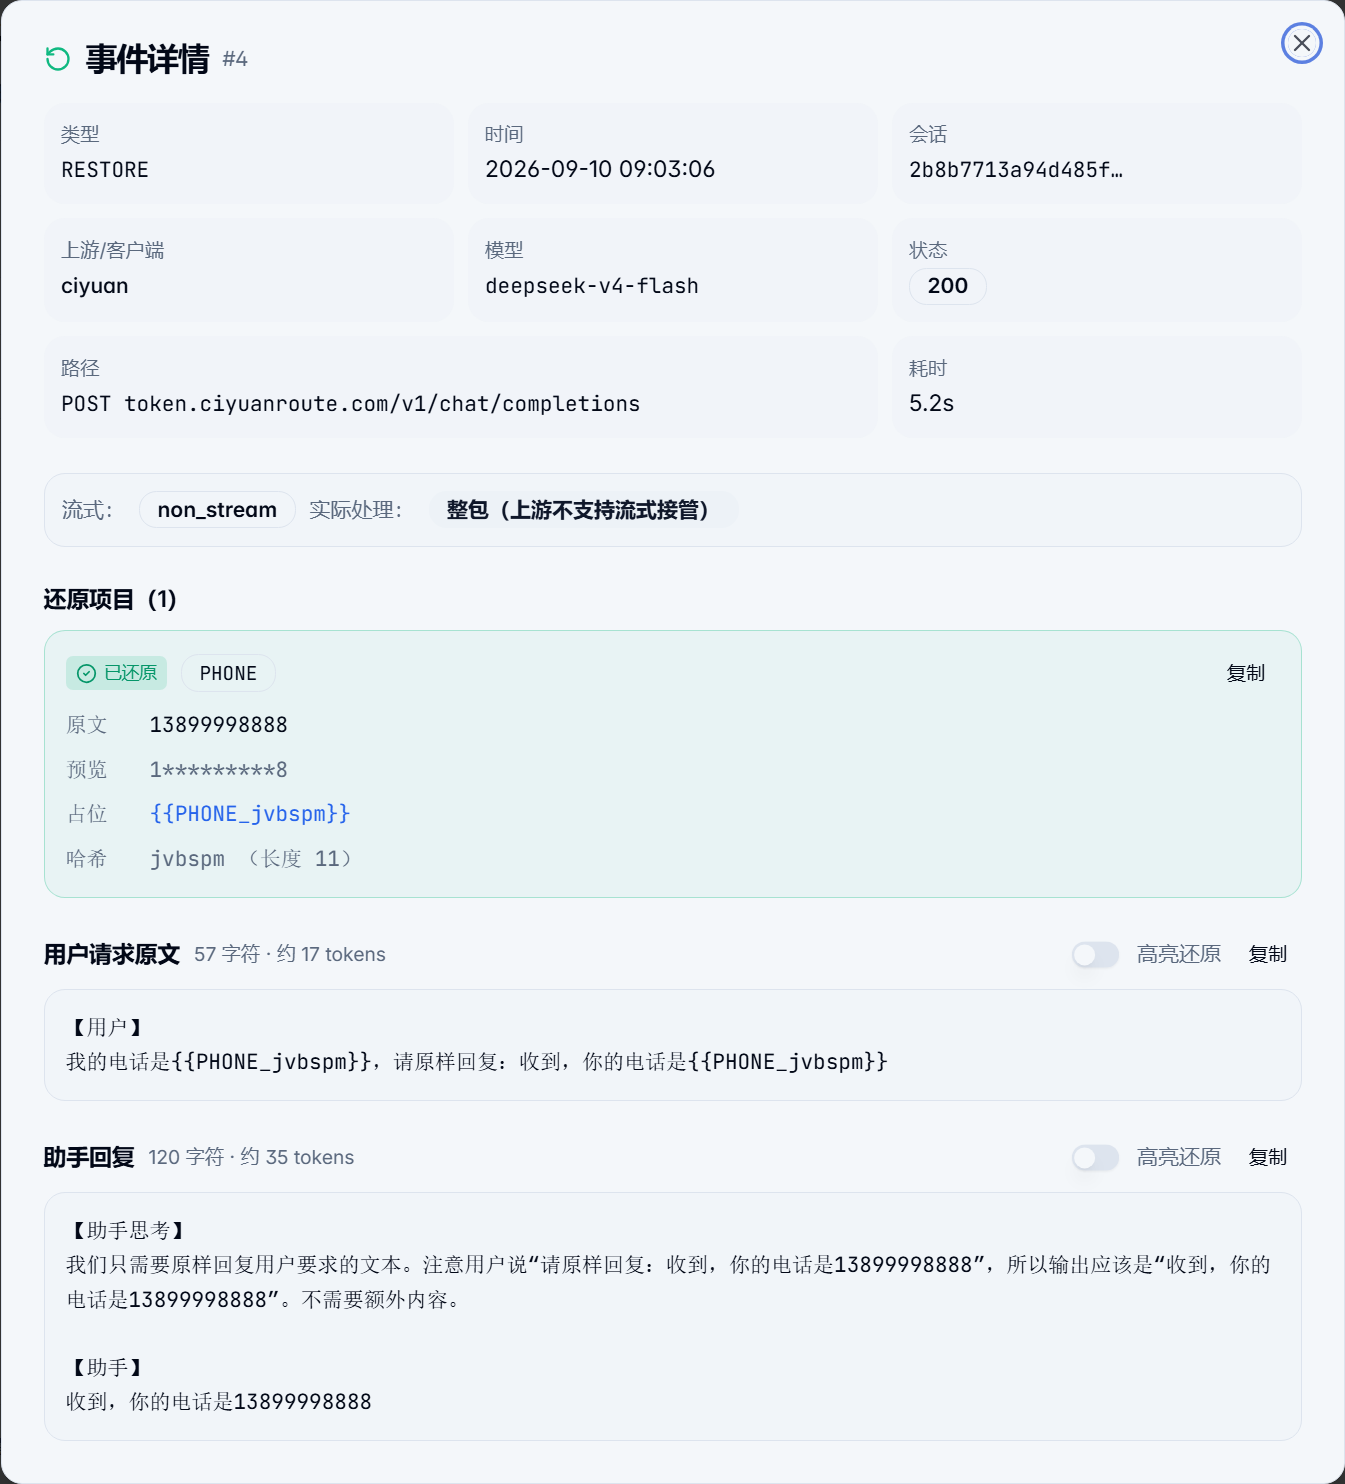
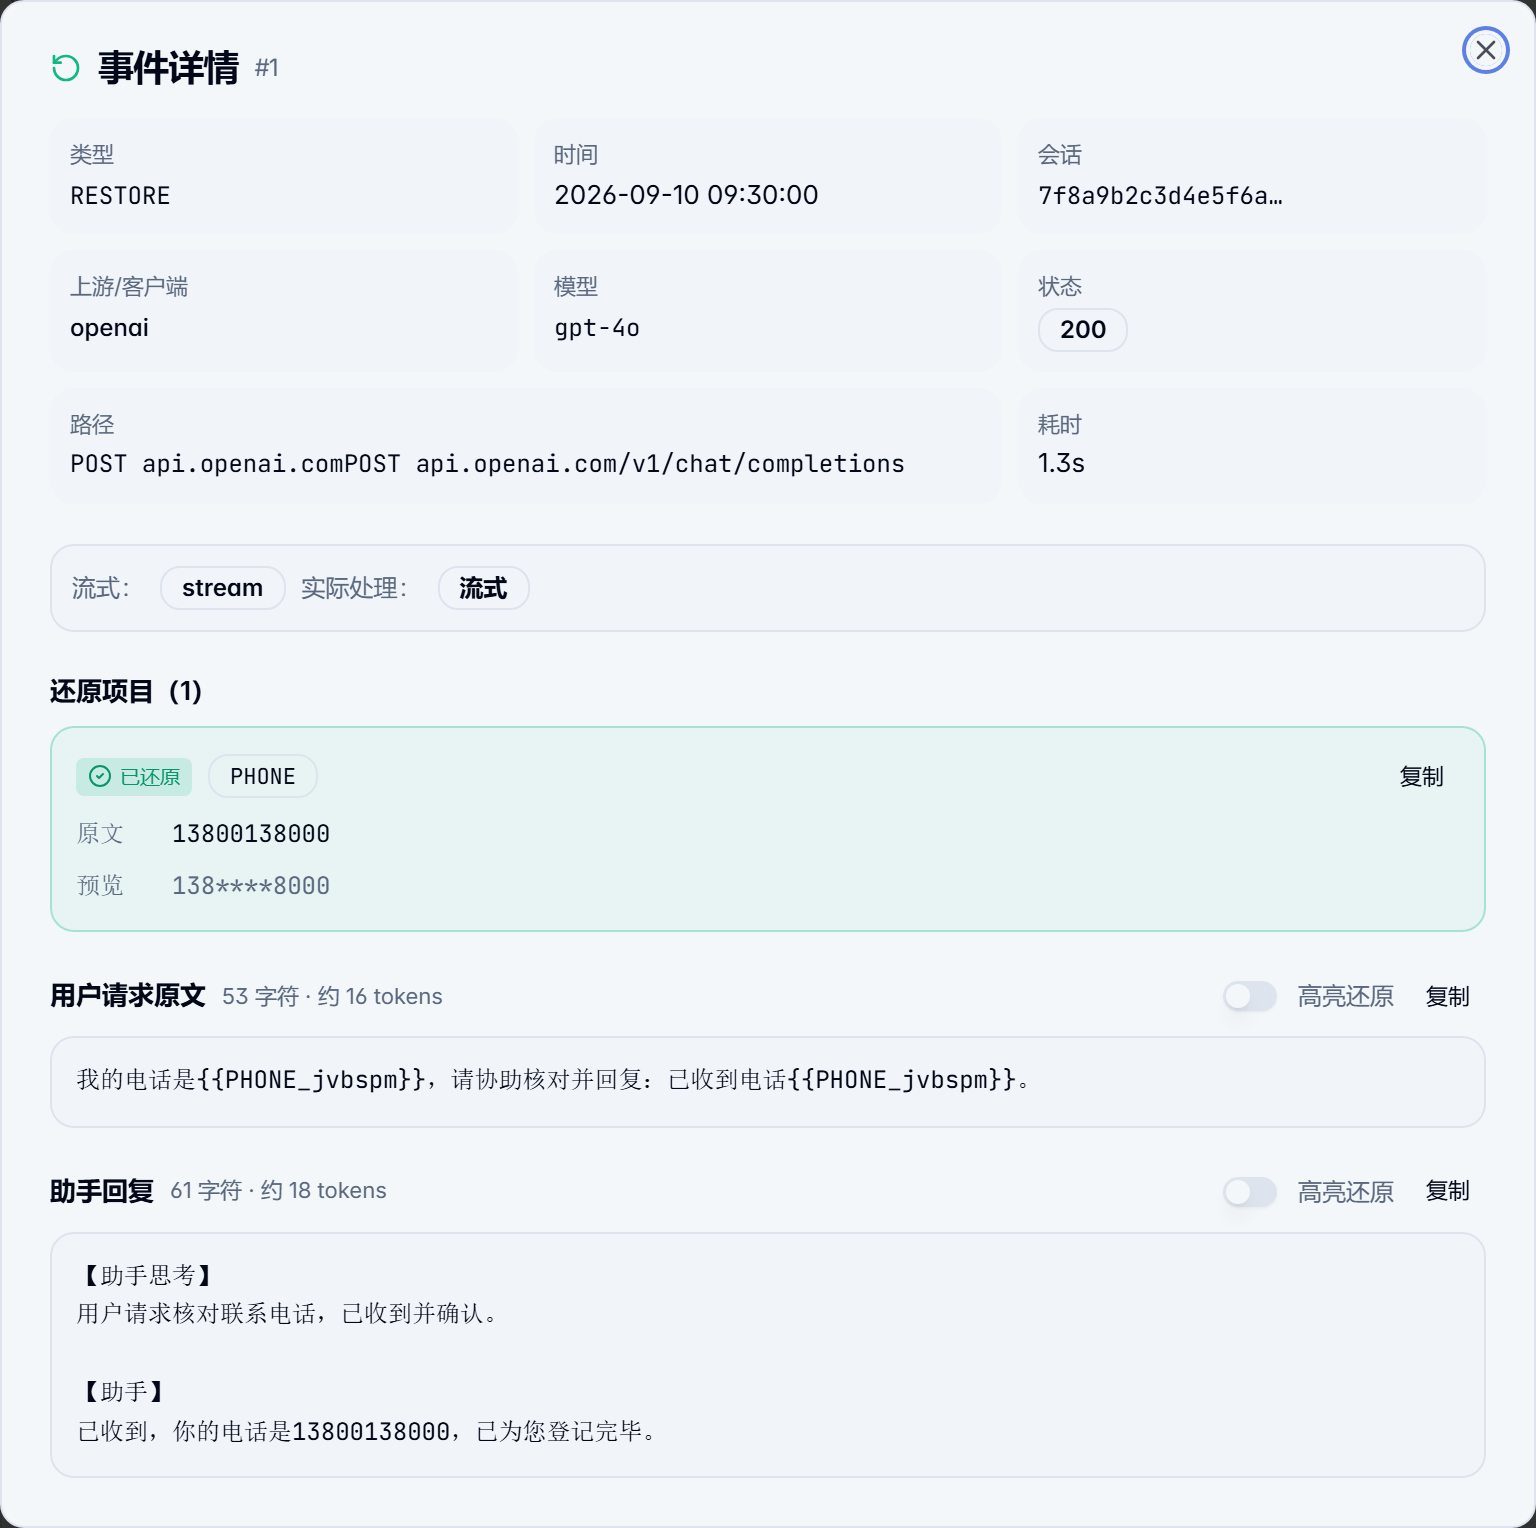
fix: 解决评估清单问题（截图敏感域名清洗、解除告警、放行 GitHub API、自动组装 latest.json）

diff --git a/README.md b/README.md
@@ -67,7 +67,7 @@
   <img src="docs/screenshots/event-detail.png" alt="真实脱敏与还原事件明细" width="85%" />
 </p>
 
-> **实锤效果**：上图中，发往大模型时手机号已被打码为 `{{PHONE_jvbspm}}`（模型完全没有拿到真实号码），而大模型思考作答完毕后，返回给你时毫秒级无感还原回 `13899998888`！可在日志弹窗中一键开启「高亮还原」进行精确比对。
+> **实锤效果**：上图中，发往大模型时手机号已被打码为 `{{PHONE_jvbspm}}`（模型完全没有拿到真实号码），而大模型思考作答完毕后，返回给你时毫秒级无感还原回 `13800138000`！可在日志弹窗中一键开启「高亮还原」进行精确比对。
 
 ---
 
@@ -83,9 +83,8 @@
   - 内置覆盖：PEM 私钥、数据库连接串、API Key/Token、手机号、身份证、银行卡、车牌、内网 IPv4/IPv6 等；
   - 自定义词库：支持一键整分类启停禁用、整词匹配边界防御、正则表达式扩展。
 - 🌐 **两种部署形态**：
-  - **Windows 桌面客户端**（Tauri 2 + React 19）：系统托盘常驻、引擎崩溃自愈、开机自启，顶栏一键中英双语切换；
-  - **Docker（amd64 / arm64）**：Linux 服务器 / NAS / macOS 上无头运行，内嵌同一套 Web 控制台，浏览器远程管理（令牌鉴权）。
-  - **桌面包**：Windows NSIS 是当前主发行形态；macOS DMG 与 Linux deb/AppImage 由 tag CI 构建，下载前请以对应 Release 资产的签名、公证和平台说明为准。
+  - **Windows 桌面客户端**（Tauri 2 + React 19）：系统托盘常驻、引擎崩溃自愈、开机自启，顶栏一键中英双语切换（目前官方桌面端仅发布 Windows 10/11 安装包；macOS 与 Linux 桌面客户端尚未发布）；
+  - **Docker 私有网关（amd64 / arm64）**：Linux 服务器 / NAS / macOS 上无头运行，内嵌同一套 Web 控制台，浏览器远程管理（令牌鉴权）。
 
 ---
 
@@ -176,12 +175,14 @@ print(response.choices[0].message.content)
 docker run -d \
   --name maskit \
   --restart unless-stopped \
-  -p 5801:5801 \
-  -p 18701-18710:18701-18710 \
+  -p 127.0.0.1:5801:5801 \
+  -p 127.0.0.1:18701-18710:18701-18710 \
   -v maskit_data:/data \
-  -e MASKIT_PANEL_TOKEN="change-me-to-a-long-random-string" \
+  -e MASKIT_PANEL_TOKEN="请替换为随机高强度字符串" \
   ghcr.io/xiayutian11/maskit:latest
 ```
+
+> **安全防护提示**：命令默认绑定 `127.0.0.1` 本地回环地址，防止未设密码的 187xx 反代端口暴露于公网。若需在局域网/内网共享，建议将容器置于 Nginx/Caddy 等带有 TLS 的反向代理后，或显式绑定到受信任的内网 IP。
 
 #### 2. 或使用 Docker Compose 编排
 在任意目录创建 `docker-compose.yml`（无需仓库代码）：

diff --git a/README_EN.md b/README_EN.md
@@ -78,9 +78,8 @@ When coding with **Cursor, Claude Code (with cc-switch), Codex, ChatGPT, or AI c
   - Built-in: PEM private keys, DB connection strings, API keys/tokens, phone numbers, ID cards, bank cards, license plates, private IPv4/IPv6 ranges;
   - Custom: Category-level toggles, whole-word boundary defense, and custom regular expressions.
 - 🌐 **Two Deployment Modes**:
-  - **Windows desktop app** (Tauri 2 + React 19): system tray, engine crash self-healing, auto-start, one-click bilingual switching;
-  - **Desktop bundles**: Windows NSIS is the primary distribution; macOS DMG and Linux deb/AppImage are built by the tag workflow. Check the signing, notarization, and platform notes attached to each Release asset before installing.
-  - **Docker (amd64 / arm64)**: headless on Linux servers / NAS / macOS with the same embedded Web console and token-protected access.
+  - **Windows desktop app** (Tauri 2 + React 19): system tray, engine crash self-healing, auto-start, one-click bilingual switching (official desktop build currently supports Windows 10/11 x64; macOS & Linux desktop apps are not yet released);
+  - **Docker Private Gateway (amd64 / arm64)**: headless on Linux servers / NAS / macOS with the same embedded Web console and token-protected access.
 
 ---
 
@@ -164,12 +163,14 @@ print(response.choices[0].message.content)
 docker run -d \
   --name maskit \
   --restart unless-stopped \
-  -p 5801:5801 \
-  -p 18701-18710:18701-18710 \
+  -p 127.0.0.1:5801:5801 \
+  -p 127.0.0.1:18701-18710:18701-18710 \
   -v maskit_data:/data \
   -e MASKIT_PANEL_TOKEN="change-me-to-a-long-random-string" \
   ghcr.io/xiayutian11/maskit:latest
 ```
+
+> **Security Note**: Defaults to binding on `127.0.0.1` loopback to prevent unauthenticated 187xx proxy channels from internet exposure. If sharing within a private network, place behind a reverse proxy (with TLS) or bind explicitly to a trusted internal IP.
 
 #### 2. Or with Docker Compose
 Create a standalone `docker-compose.yml` anywhere:

diff --git a/docs/PLATFORM_SUPPORT.md b/docs/PLATFORM_SUPPORT.md
@@ -8,8 +8,8 @@
 | Docker 无头服务 | linux/amd64 | 支持 | Web 控制台和反向代理端口，适合 Linux 服务器、NAS 或 Windows/macOS 上的 Docker Desktop。 |
 | Docker 无头服务 | linux/arm64 | 支持 | 由 Release 工作流构建，多数 ARM64 NAS/服务器可用；请确认 Docker 主机支持对应架构。 |
 | 源码引擎 + Web 控制台 | Windows / Linux / macOS | 可启动 | Python 3.13 + Flask；基础反向代理/Web 控制台可运行，系统代理/证书等平台特性请按目标系统单独验证。 |
-| 原生 macOS 桌面安装包 | arm64（CI） | 构建中/未公证 | tag CI 生成 DMG；当前仓库不承诺本机签名、公证或 Intel 产物，下载前核对 Release 说明。 |
-| 原生 Linux 桌面安装包 | x86_64（CI） | 构建中 | tag CI 生成 deb/AppImage；目标系统需要 WebKitGTK/桌面运行库，下载前核对 Release 说明。 |
+| 原生 macOS 桌面安装包 | arm64 | 暂未发布 | 官方桌面端目前仅支持 Windows；macOS 建议使用 Docker 镜像或源码形态。 |
+| 原生 Linux 桌面安装包 | x86_64 | 暂未发布 | 官方桌面端目前仅支持 Windows；Linux 建议使用 Docker 官方多架构镜像部署。 |
 
 ## Docker 验证
 
